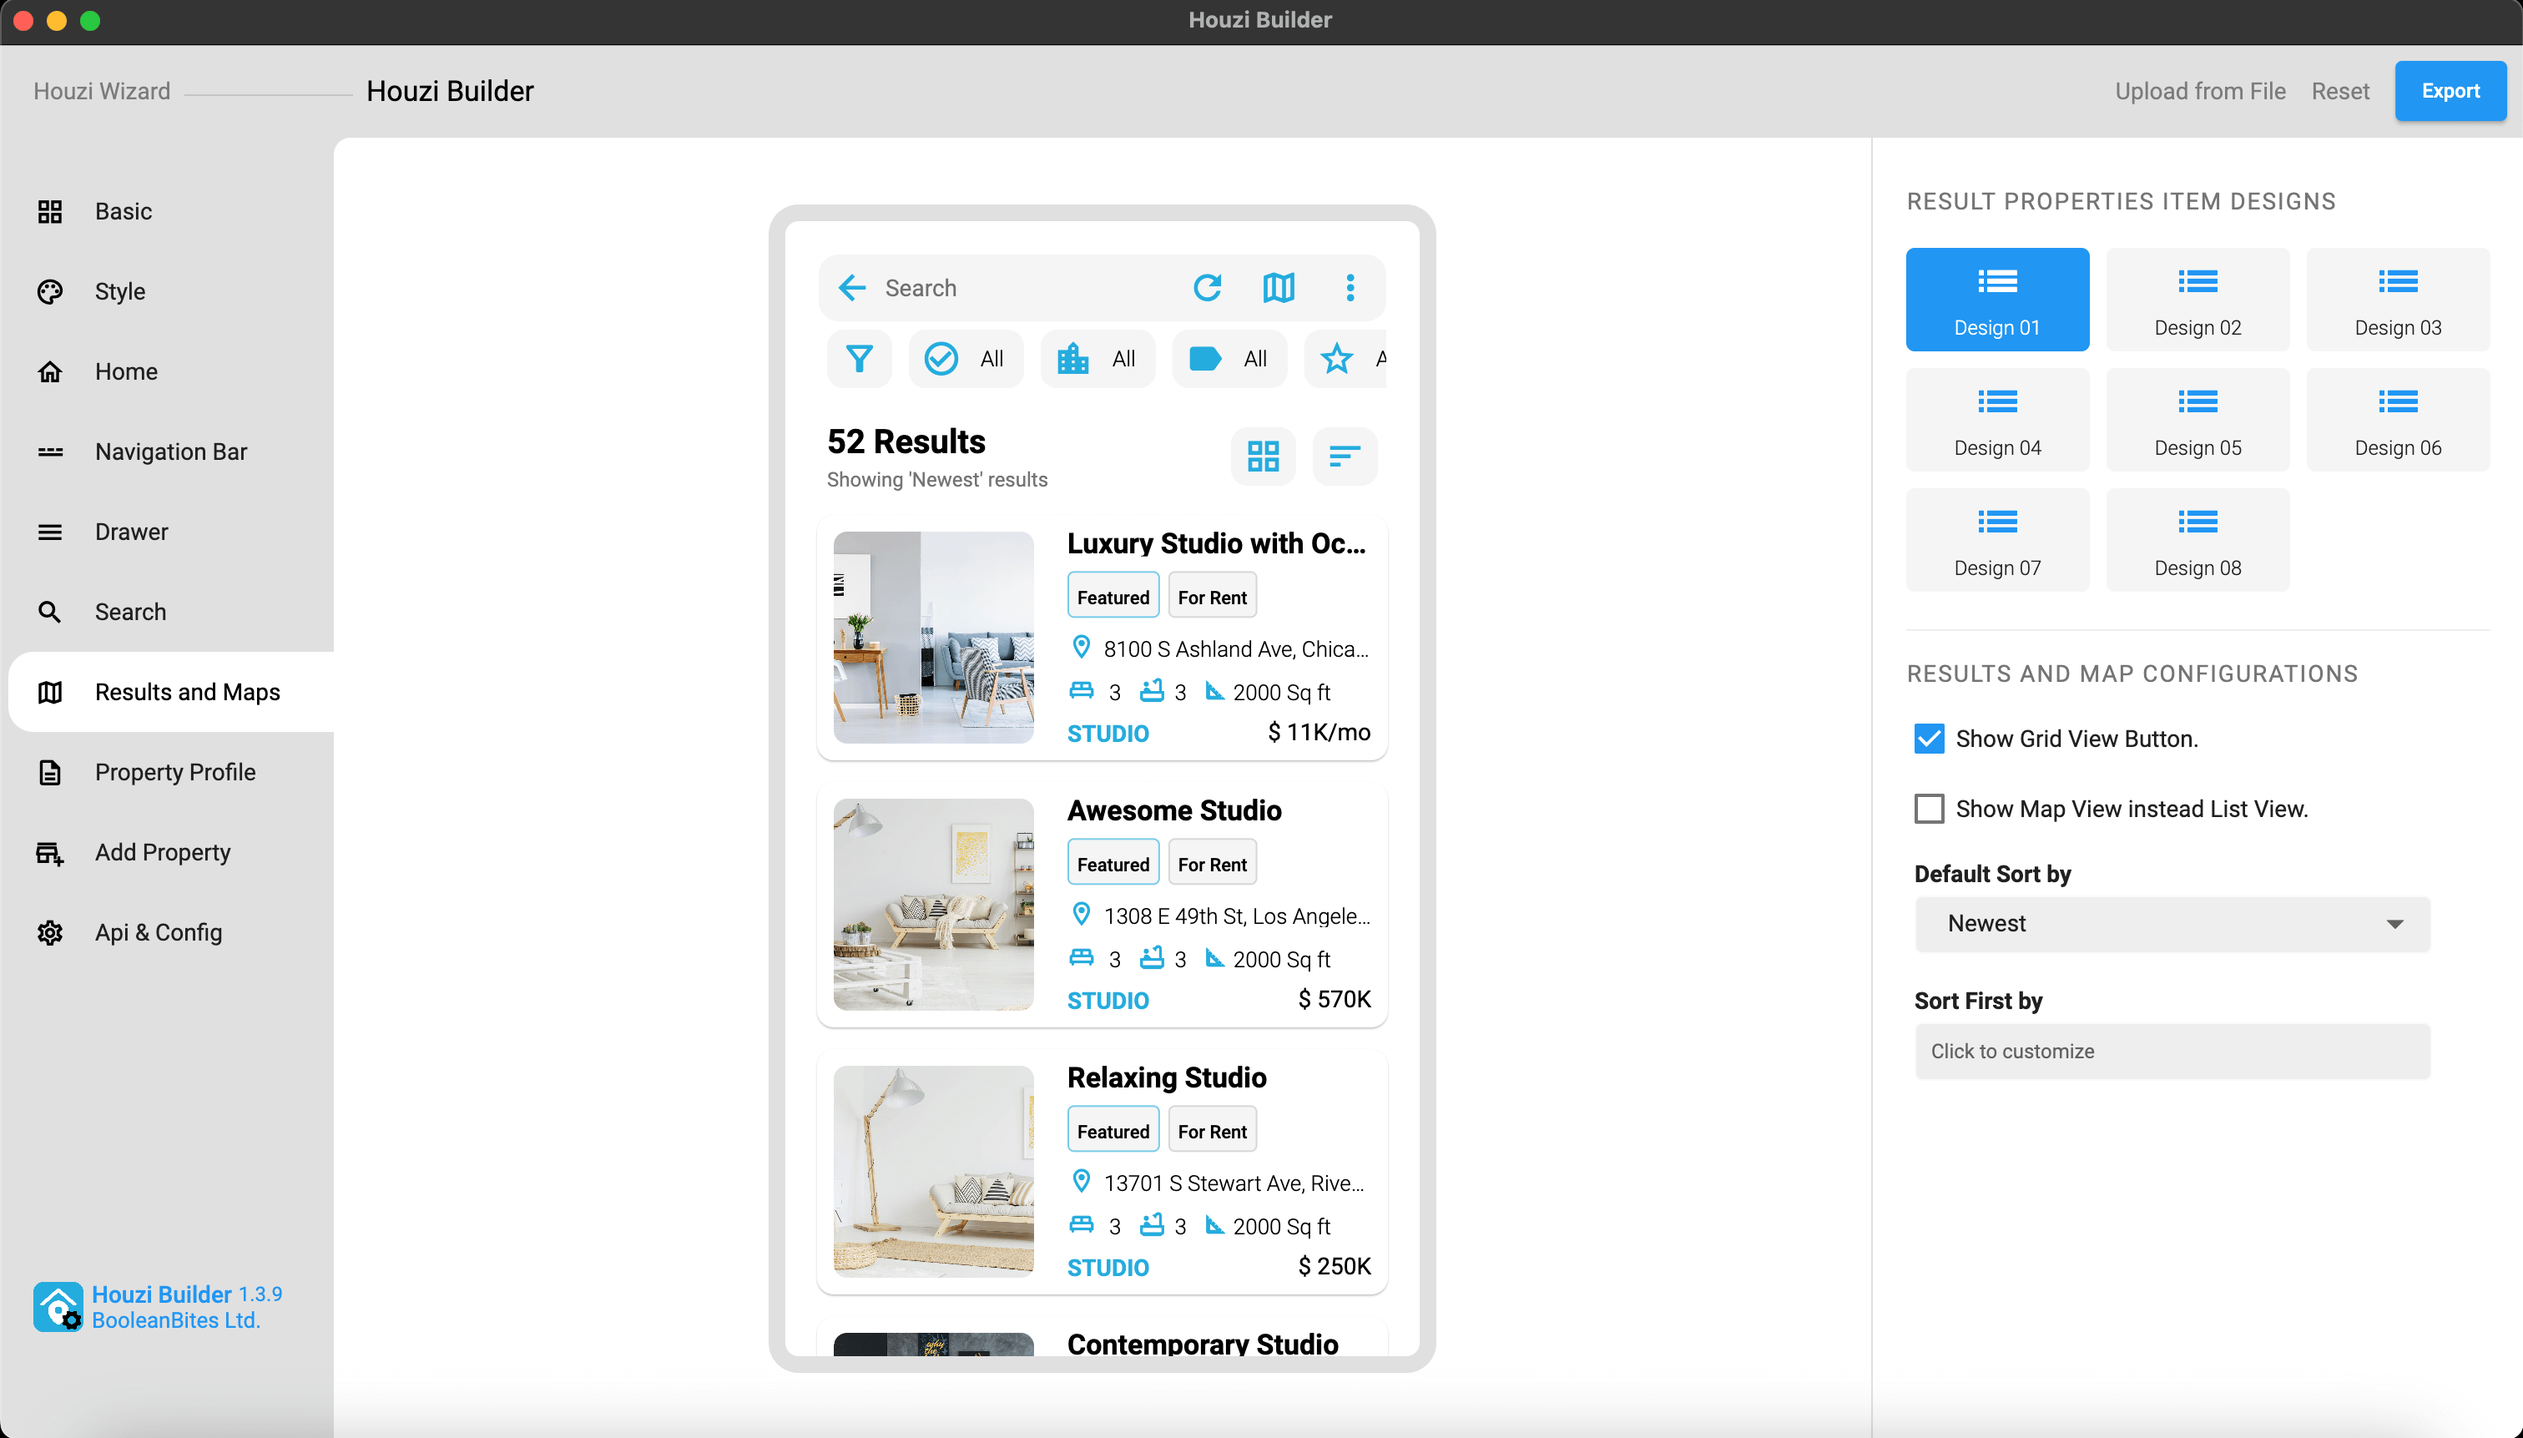
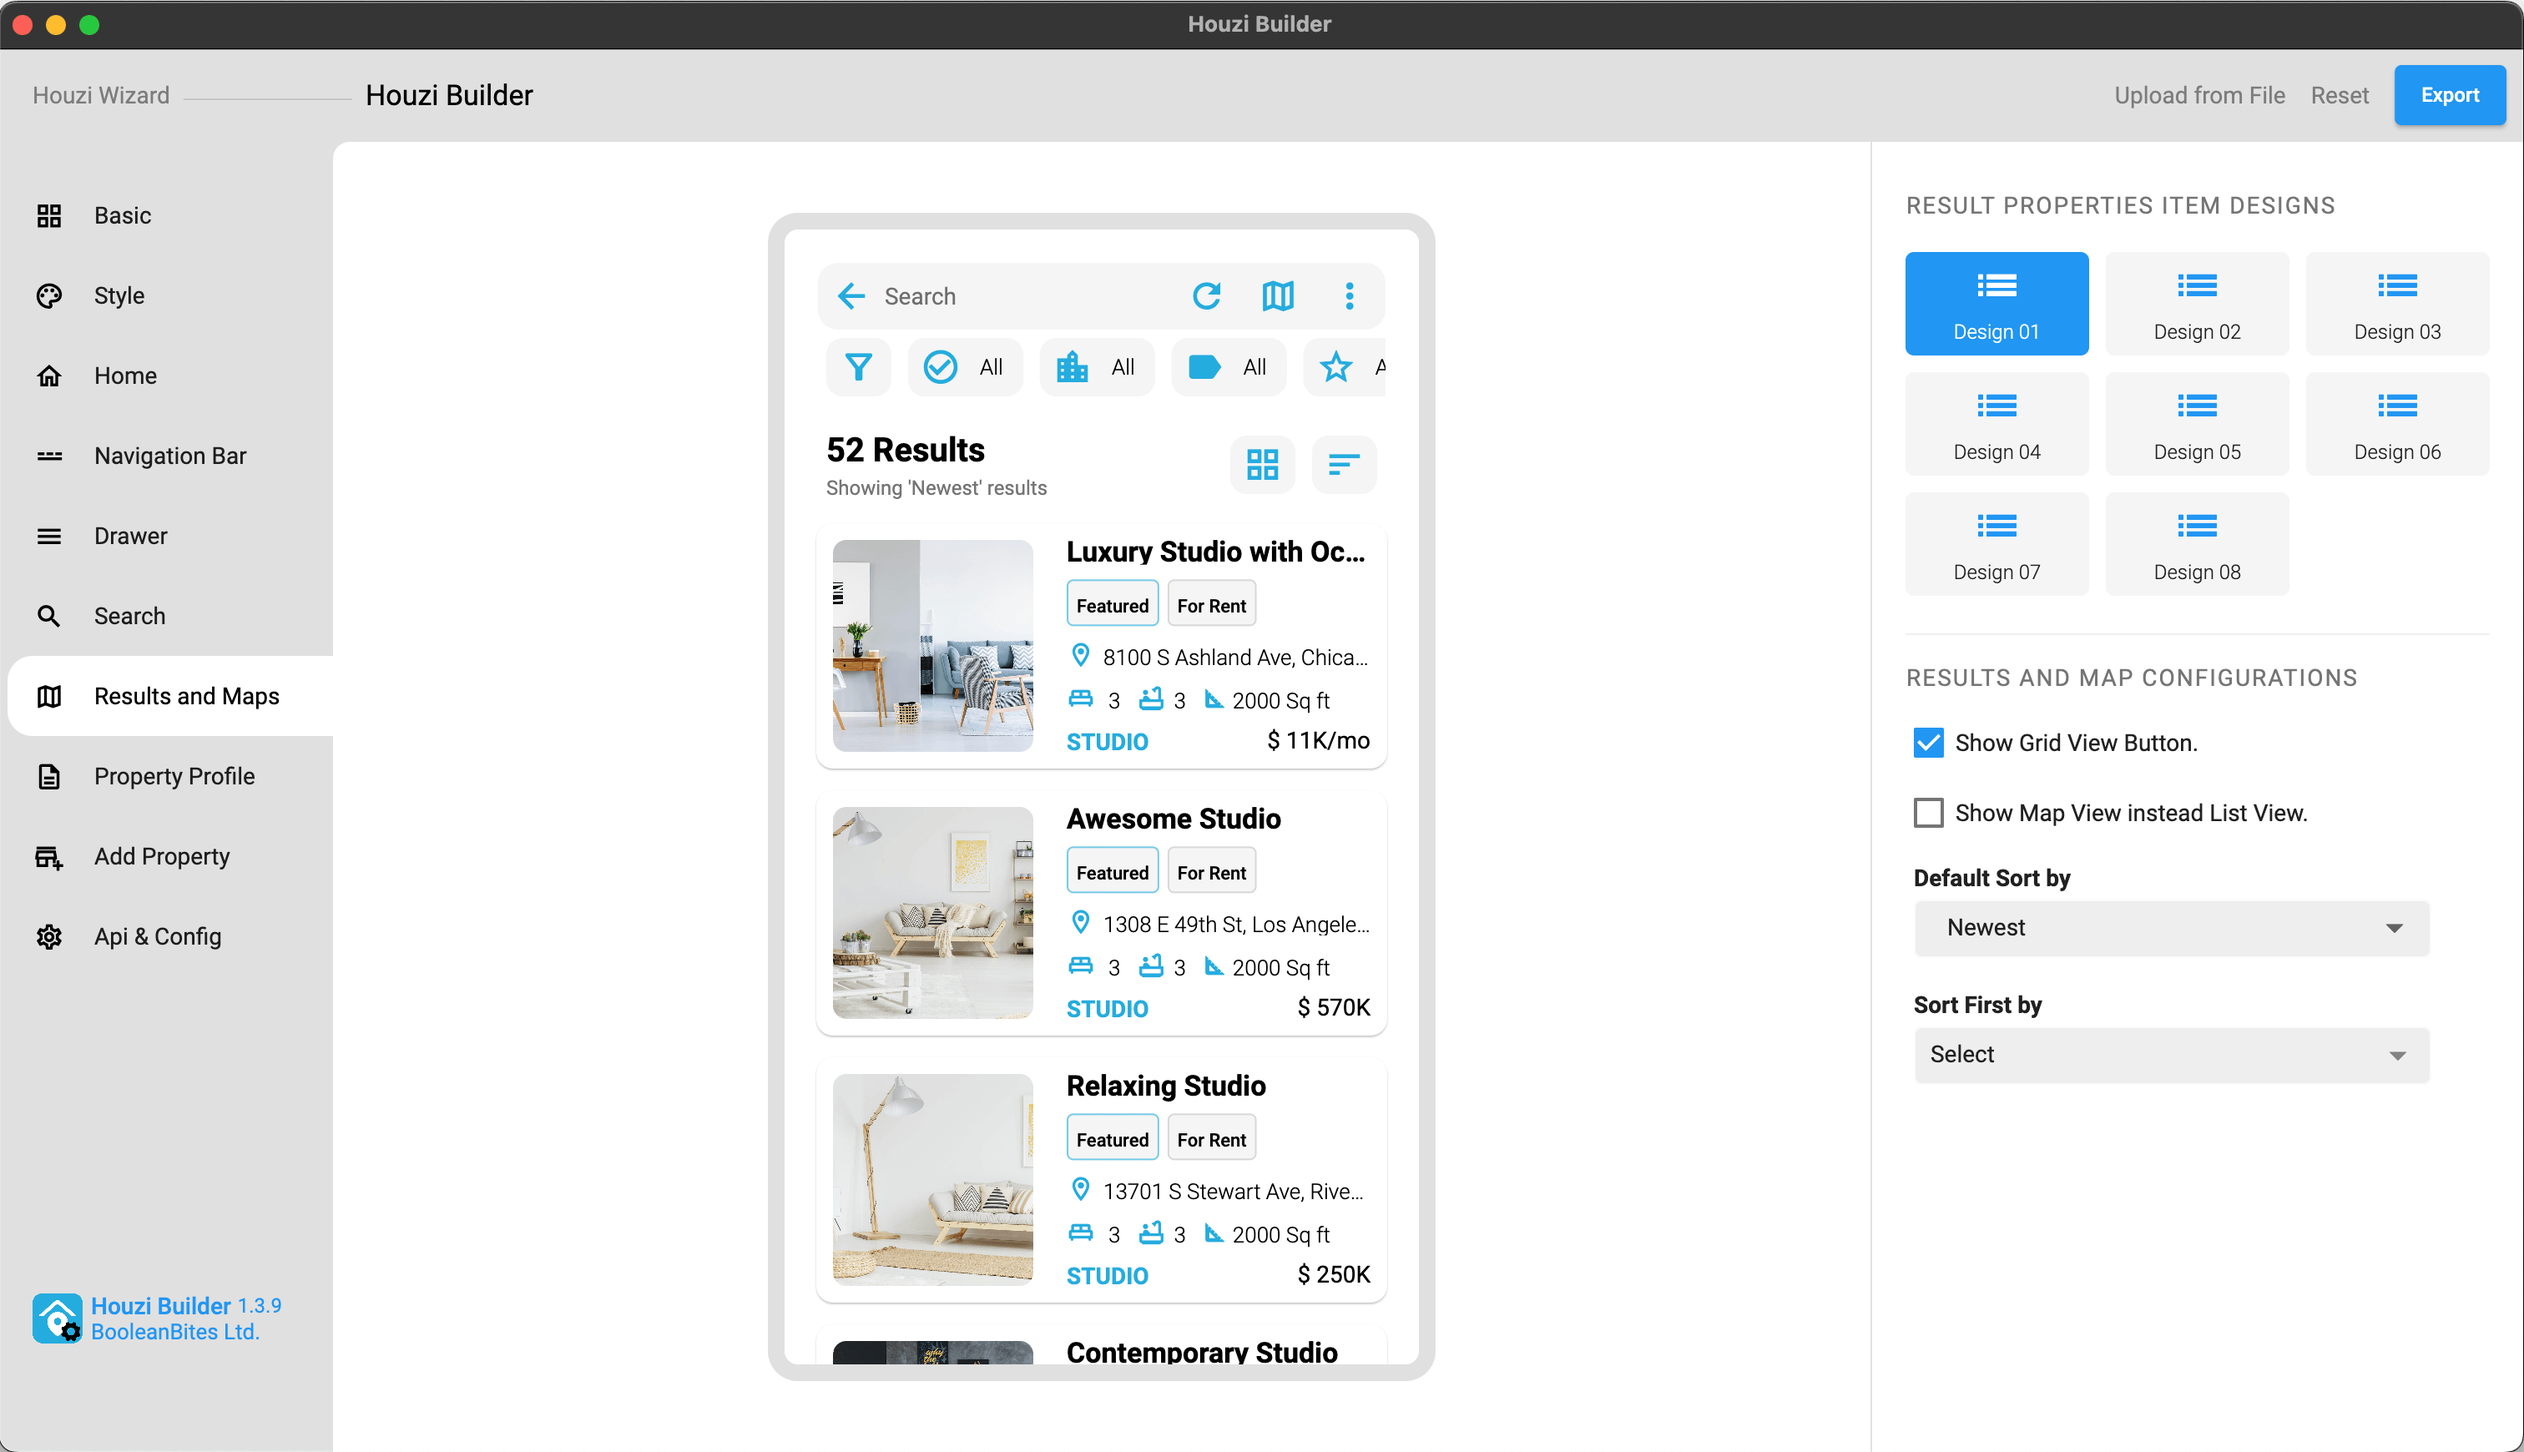
Updated docs of 'Results and Map'.

diff --git a/_docs/houzi-builder/10_customize-results-and-maps.md b/_docs/houzi-builder/10_customize-results-and-maps.md
@@ -62,7 +62,7 @@ You are provided with the dropdown list of the self-explanatory **Sort** options
 
 ### Sort First By Configuration
 
-You can configure the *Sort First By* menu by clicking on the 'Sort First by' empty text field. 
+You can configure the *Sort First By* menu by clicking on the 'Sort First by' dropdown field. 
 
 <img src="../../images/sort-first-by-01.png" alt="sort-first-by-01" title="sort-first-by-01" width= 300 border= "1px solid"/>
 
